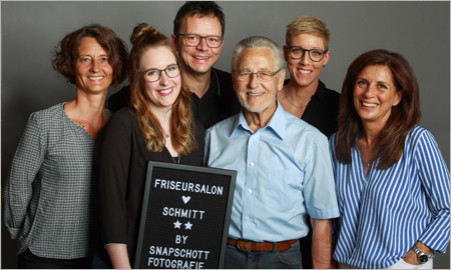
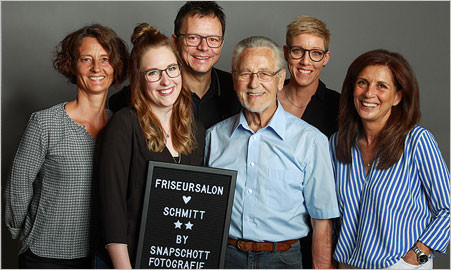
Adjusted container width, changed team image

diff --git a/src/css/configuration/_settings.scss b/src/css/configuration/_settings.scss
@@ -24,7 +24,7 @@ $z-index: column-main, column-header;
 // Sizes
 $container-gutter: 25px;
 $container-gutter-sm: 50px;
-$container-width-default: 450px;
+$container-width-default: 451px;
 
 $content-spacing-vertical: 50px;
 $content-spacing-vertical-sm: 100px;
